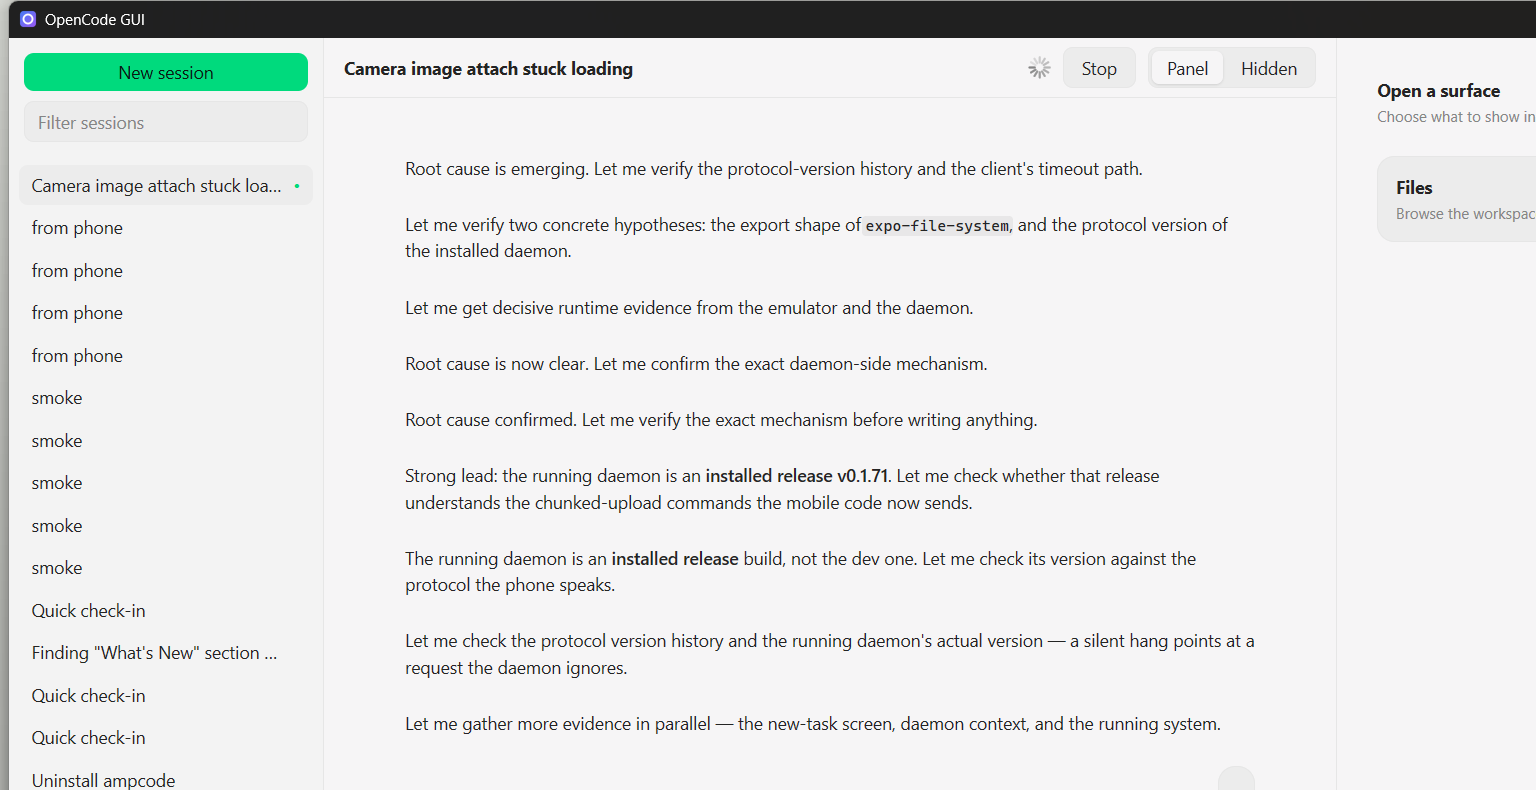
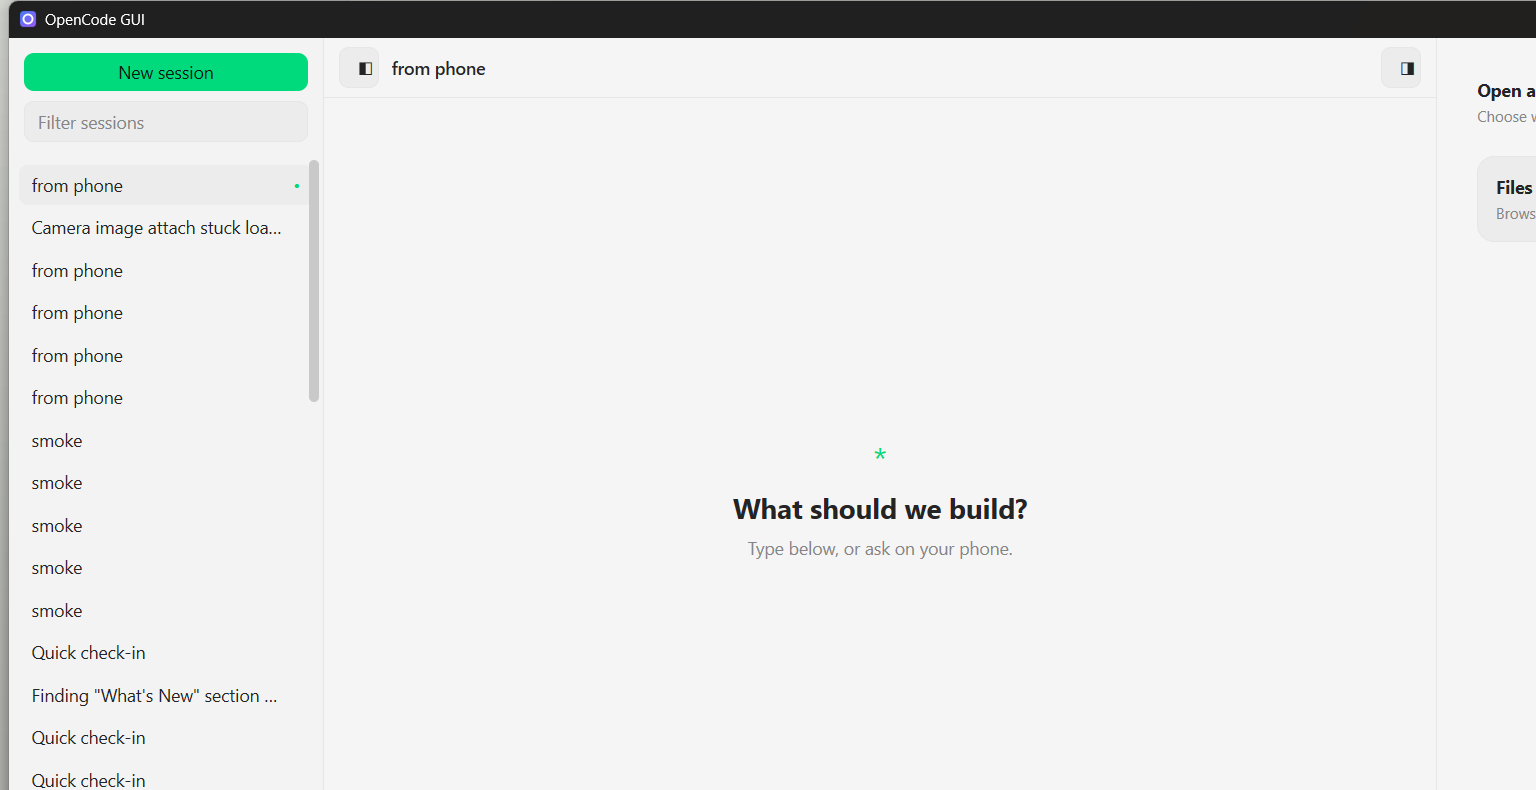
feat(ui): semibold settings labels; collapsible left/right panels with toggles top-left and top-right

diff --git a/main.go b/main.go
@@ -43,18 +43,20 @@ type state struct {
 	running bool
 	tab     int // inspector tab: 0 diff, 1 files
 
-	sidebarWidth  float32
-	chatList      ui.ListState
-	md            markdown.Options
-	diffState     *editor.DiffState
-	daemon        *daemon.Daemon
-	daemonURL     string
-	diffFile      string
-	filter        string
-	modelName     string
-	set           settings
-	ctx           context.Context
-	cancelSession context.CancelFunc
+	sidebarWidth   float32
+	chatList       ui.ListState
+	md             markdown.Options
+	diffState      *editor.DiffState
+	daemon         *daemon.Daemon
+	daemonURL      string
+	diffFile       string
+	filter         string
+	modelName      string
+	set            settings
+	leftCollapsed  bool
+	rightCollapsed bool
+	ctx            context.Context
+	cancelSession  context.CancelFunc
 }
 
 func main() {
@@ -223,8 +225,10 @@ func (st *state) view(c *ui.Context) {
 	}
 
 	ui.Row(c).FillWidth().FillHeight().AlignItems(ui.Stretch).Children(func() {
-		// ── Sidebar ──────────────────────────────────────────────
-		st.sidebar(c, t)
+		// ── Sidebar (collapsible) ────────────────────────────────
+		if !st.leftCollapsed {
+			st.sidebar(c, t)
+		}
 
 		// ── Chat ─────────────────────────────────────────────────
 		ui.Column(c).Grow(1).FillHeight().Children(func() {
@@ -233,8 +237,8 @@ func (st *state) view(c *ui.Context) {
 			st.composer(c, t)
 		})
 
-		// ── Right panel ──────────────────────────────────────────
-		if st.tab >= 0 {
+		// ── Right panel (collapsible) ────────────────────────────
+		if st.tab >= 0 && !st.rightCollapsed {
 			ui.Column(c).Width(panelWidthDefault).FillHeight().
 				Background(t.Background).
 				BorderWidth(0, 0, 0, 1).BorderColor(t.Border).
@@ -384,12 +388,20 @@ func (st *state) toolbar(c *ui.Context, t *ui.Theme) {
 	st.mu.Lock()
 	running := st.running
 	status := st.status
-	tab := st.tab
 	active := st.active
 	st.mu.Unlock()
 
-	ui.Row(c).Gap(10).Padding(10, 16).AlignItems(ui.Center).Height(48).
+	ui.Row(c).Gap(10).Padding(10, 12).AlignItems(ui.Center).Height(48).
 		BorderWidth(0, 0, 1, 0).BorderColor(t.Border).Children(func() {
+		// Top-left: expand/collapse the left panel.
+		leftGlyph := "◧"
+		if st.leftCollapsed {
+			leftGlyph = "▣"
+		}
+		if ui.Button(c, leftGlyph).Width(32).Clicked() {
+			st.leftCollapsed = !st.leftCollapsed
+		}
+
 		title := "New task"
 		st.mu.Lock()
 		for _, s := range st.sessionsList {
@@ -398,7 +410,7 @@ func (st *state) toolbar(c *ui.Context, t *ui.Theme) {
 			}
 		}
 		st.mu.Unlock()
-		ui.Text(c, truncate(title, 48)).Bold().MaxLines(1)
+		ui.Text(c, truncate(title, 48)).FontWeight(600).MaxLines(1)
 		ui.Spacer(c)
 		if running {
 			ui.Spinner(c)
@@ -409,12 +421,15 @@ func (st *state) toolbar(c *ui.Context, t *ui.Theme) {
 		if status != "" {
 			ui.Text(c, status).FontSize(12).TextColor(t.TextMuted).MaxLines(1)
 		}
-		labels := []string{"Panel", "Hidden"}
-		ui.Segmented(c, &tab, labels...).Changed()
-		if tab != st.tab {
-			st.mu.Lock()
-			st.tab = tab
-			st.mu.Unlock()
+
+		// Top-right: expand/collapse the right panel.
+		rightGlyph := "◨"
+		if st.rightCollapsed {
+			rightGlyph = "▣"
+		}
+		if ui.Button(c, rightGlyph).Width(32).Clicked() {
+			st.tab = 0
+			st.rightCollapsed = !st.rightCollapsed
 		}
 	})
 }

diff --git a/settings.go b/settings.go
@@ -184,10 +184,11 @@ func settingsCard(c *ui.Context, t *ui.Theme, fn func()) {
 }
 
 // settingsRow is a label + description on the left, a control on the right.
+// The label is semibold (600), not bold, so a page of rows stays calm.
 func settingsRow(c *ui.Context, t *ui.Theme, title, desc string, control func()) {
 	ui.Row(c).FillWidth().Gap(16).AlignItems(ui.Center).Padding(10, 0).Children(func() {
 		ui.Column(c).Grow(1).Gap(2).Children(func() {
-			ui.Text(c, title).Bold()
+			ui.Text(c, title).FontWeight(600)
 			if desc != "" {
 				ui.Text(c, desc).FontSize(12).TextColor(t.TextMuted)
 			}
@@ -276,7 +277,7 @@ func providerSubtitle(a opencode.Agent) string {
 func (st *state) sectionMemory(c *ui.Context, t *ui.Theme) {
 	sectionHeader(c, "Memory")
 	settingsCard(c, t, func() {
-		ui.Text(c, "Project instructions").Bold()
+		ui.Text(c, "Project instructions").FontWeight(600)
 		ui.Text(c, "opencode reads AGENTS.md from the project root and applies it to every session.").
 			FontSize(12).TextColor(t.TextMuted)
 		ui.Row(c).Gap(8).Padding(12, 0, 0).Children(func() {
@@ -298,7 +299,7 @@ func (st *state) sectionDaemon(c *ui.Context, t *ui.Theme) {
 	})
 
 	settingsCard(c, t, func() {
-		ui.Text(c, "Listener access").Bold()
+		ui.Text(c, "Listener access").FontWeight(600)
 		ui.Text(c, "Clients reach this daemon over your Tailscale network.").
 			FontSize(12).TextColor(t.TextMuted)
 		ui.Row(c).FillWidth().Gap(16).AlignItems(ui.Center).Padding(10, 0).Children(func() {
@@ -311,7 +312,7 @@ func (st *state) sectionDaemon(c *ui.Context, t *ui.Theme) {
 	})
 
 	settingsCard(c, t, func() {
-		ui.Text(c, "Connection details").Bold()
+		ui.Text(c, "Connection details").FontWeight(600)
 		ui.Text(c, "Enter these in the phone app.").FontSize(12).TextColor(t.TextMuted)
 
 		ui.Row(c).FillWidth().Gap(16).AlignItems(ui.Center).Padding(10, 0).Children(func() {
@@ -340,7 +341,7 @@ func (st *state) sectionDaemon(c *ui.Context, t *ui.Theme) {
 	})
 
 	settingsCard(c, t, func() {
-		ui.Text(c, "Reach it from anywhere with Tailscale").Bold()
+		ui.Text(c, "Reach it from anywhere with Tailscale").FontWeight(600)
 		ui.Text(c, "Tailscale lets your phone reach this machine from any network, with no port forwarding.").
 			FontSize(12).TextColor(t.TextMuted)
 		ip := tailscaleHost()
@@ -434,7 +435,7 @@ func (st *state) skillDetail(c *ui.Context, t *ui.Theme) {
 
 	ui.Row(c).FillWidth().Gap(12).AlignItems(ui.Center).Children(func() {
 		ui.Column(c).Grow(1).Gap(2).Children(func() {
-			ui.Text(c, s.Name).FontSize(18).Bold()
+			ui.Text(c, s.Name).FontSize(18).FontWeight(600)
 			ui.Text(c, "Available in every project").FontSize(12).TextColor(t.TextMuted)
 		})
 		on := s.Autoinvoke
@@ -513,7 +514,7 @@ func (st *state) sectionUsage(c *ui.Context, t *ui.Theme) {
 
 	// Per-model breakdown.
 	settingsCard(c, t, func() {
-		ui.Text(c, "Breakdown").Bold()
+		ui.Text(c, "Breakdown").FontWeight(600)
 		ui.Row(c).FillWidth().Gap(12).Padding(6, 0).Children(func() {
 			ui.Text(c, "Model").Grow(1).FontSize(11).TextColor(t.TextMuted)
 			ui.Text(c, "Cost").Width(90).FontSize(11).TextColor(t.TextMuted)

diff --git a/main_test.go b/main_test.go
@@ -45,3 +45,41 @@ func TestSendIgnoresEmptyPrompt(t *testing.T) {
 		t.Error("empty prompt should not start a run")
 	}
 }
+
+func TestPanelToggles(t *testing.T) {
+	st := &state{
+		sessions:     &app.Sessions{},
+		sidebarWidth: sidebarWidthDefault,
+		ctx:          context.Background(),
+		tab:          0,
+	}
+	tt := ui.NewTester(st.view, 1280, 800)
+
+	// Collapse the left panel.
+	if err := tt.Click("◧"); err != nil {
+		t.Fatalf("click left toggle: %v", err)
+	}
+	if !st.leftCollapsed {
+		t.Error("left panel did not collapse")
+	}
+	if !tt.HasText("▣") {
+		t.Errorf("left glyph did not change, texts %q", tt.Texts())
+	}
+
+	// Collapse the right panel.
+	if err := tt.Click("◨"); err != nil {
+		t.Fatalf("click right toggle: %v", err)
+	}
+	if !st.rightCollapsed {
+		t.Error("right panel did not collapse")
+	}
+
+	// Expand both again.
+	tt2 := ui.NewTester(st.view, 1280, 800)
+	if err := tt2.Click("▣"); err != nil {
+		t.Fatalf("expand: %v", err)
+	}
+	if st.leftCollapsed {
+		t.Error("left panel did not expand")
+	}
+}
